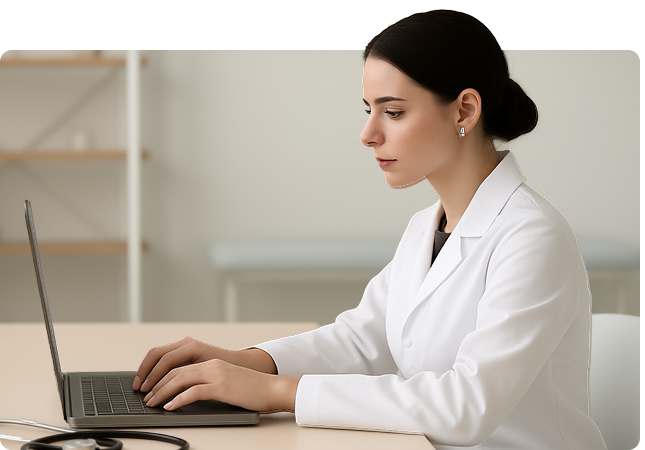
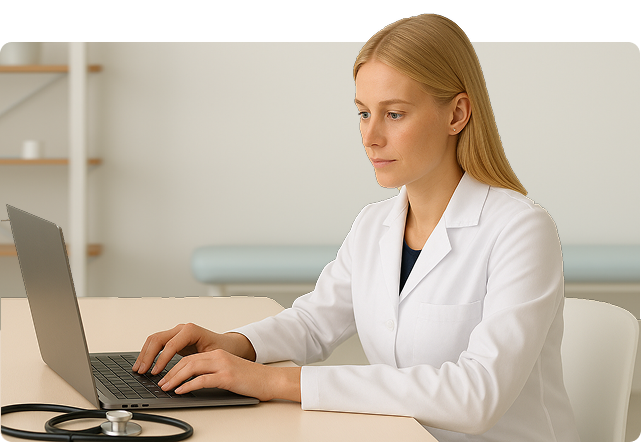
images update

diff --git a/src/pages/About.tsx b/src/pages/About.tsx
@@ -17,9 +17,9 @@ export default function About() {
                         At Clinvvo, we believe healthcare should work for people, not the other way around. Our platform simplifies clinical workflows, speeds up documentation, and enhances the patient experience
                     </p>
                 </div>
-                <div className="w-full flex md:flex-row flex-col gap-3">
-                    <img src={aboutPatient} alt="Patient Image" className="w-full md:rounded-bl-[60px] md:rounded-tl-[0px] rounded-tl-[60px]" />
-                    <img src={aboutDoctor} alt="Doctor Image" className="w-full md:rounded-tr-[60px] md:rounded-br-[0px] rounded-br-[60px]" />
+                <div className="w-full grid grid-cols-1 md:grid-cols-2 gap-3">
+                    <img src={aboutPatient} alt="Patient Image" className="w-full h-full md:rounded-bl-[60px] md:rounded-tl-[0px] rounded-tl-[60px]" />
+                    <img src={aboutDoctor} alt="Doctor Image" className="w-full h-full md:rounded-tr-[60px] md:rounded-br-[0px] rounded-br-[60px]" />
                 </div>
             </section>
             <section className="w-full min-h-screen md:px-20 px-5 md:py-24 py-16 mx-auto flex flex-col items-center gap-16 max-w-[1440px]">

diff --git a/src/assets/index.ts b/src/assets/index.ts
@@ -71,10 +71,10 @@ import patientNeed4 from "./patient-need4.png";
 import patientNeed5 from "./patient-need5.png";
 import heroPatient from "./hero-patient.png";
 import fastAccess from "./fast-access.png";
-import aboutPatient from "./about-patient.svg";
-import aboutDoctor from "./about-doctor.svg";
+import aboutPatient from "./about-patient.png";
+import aboutDoctor from "./about-doctor.png";
 import ourmission from "./ourmission.svg";
-import ourvision from "./ourvision.svg";
+import ourvision from "./ourvision.png";
 import work from "./work.svg";
 import hero from "./hero.png";
 import heroMobile from "./hero-mobile.png";
